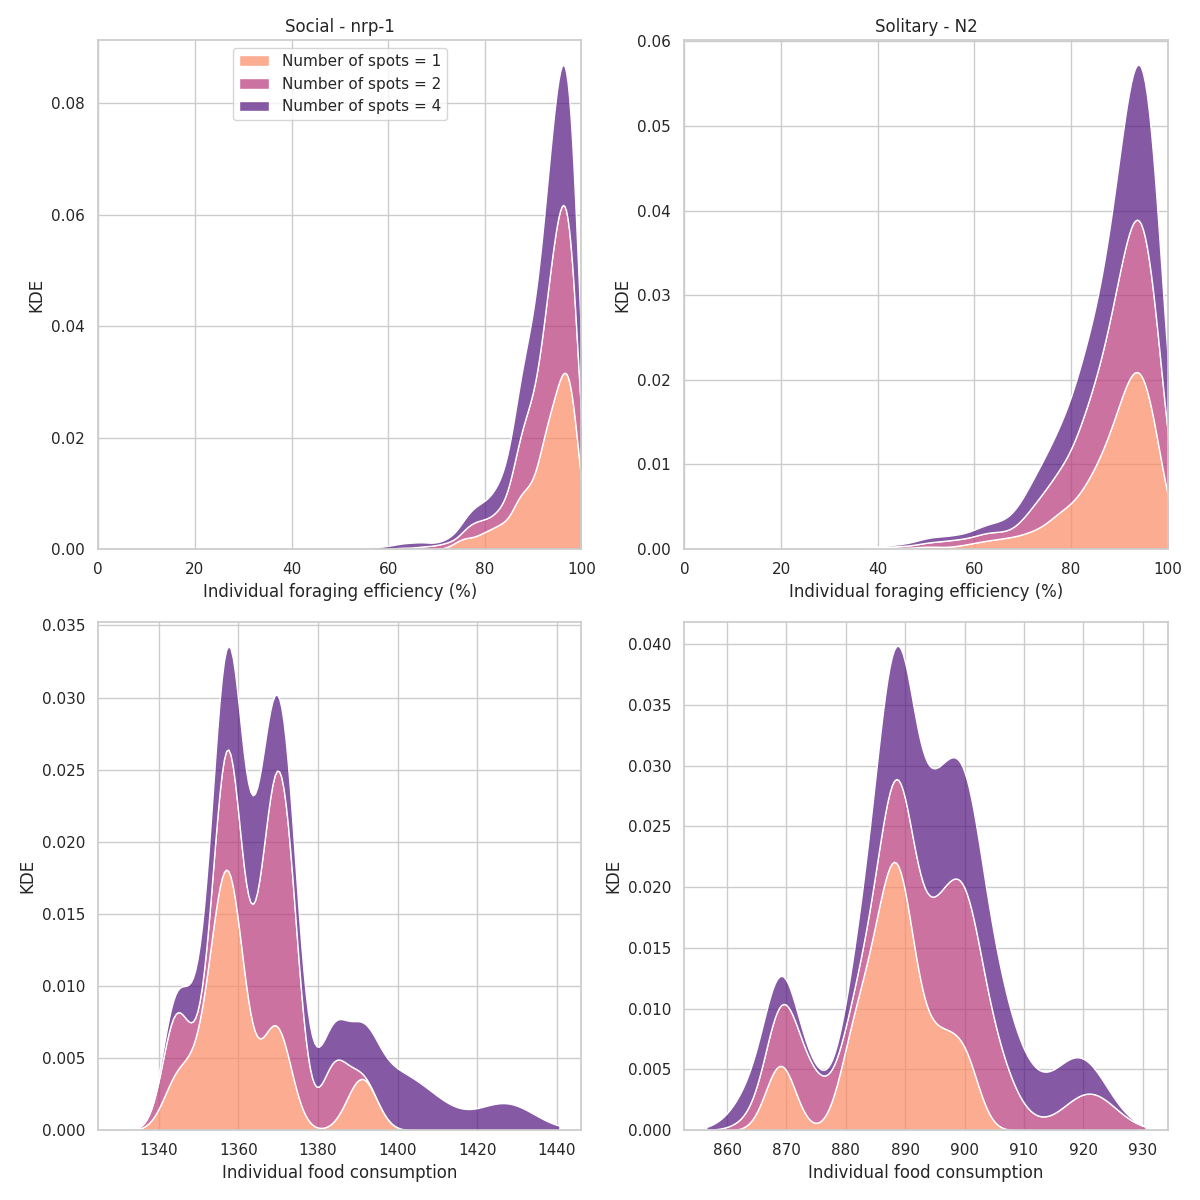
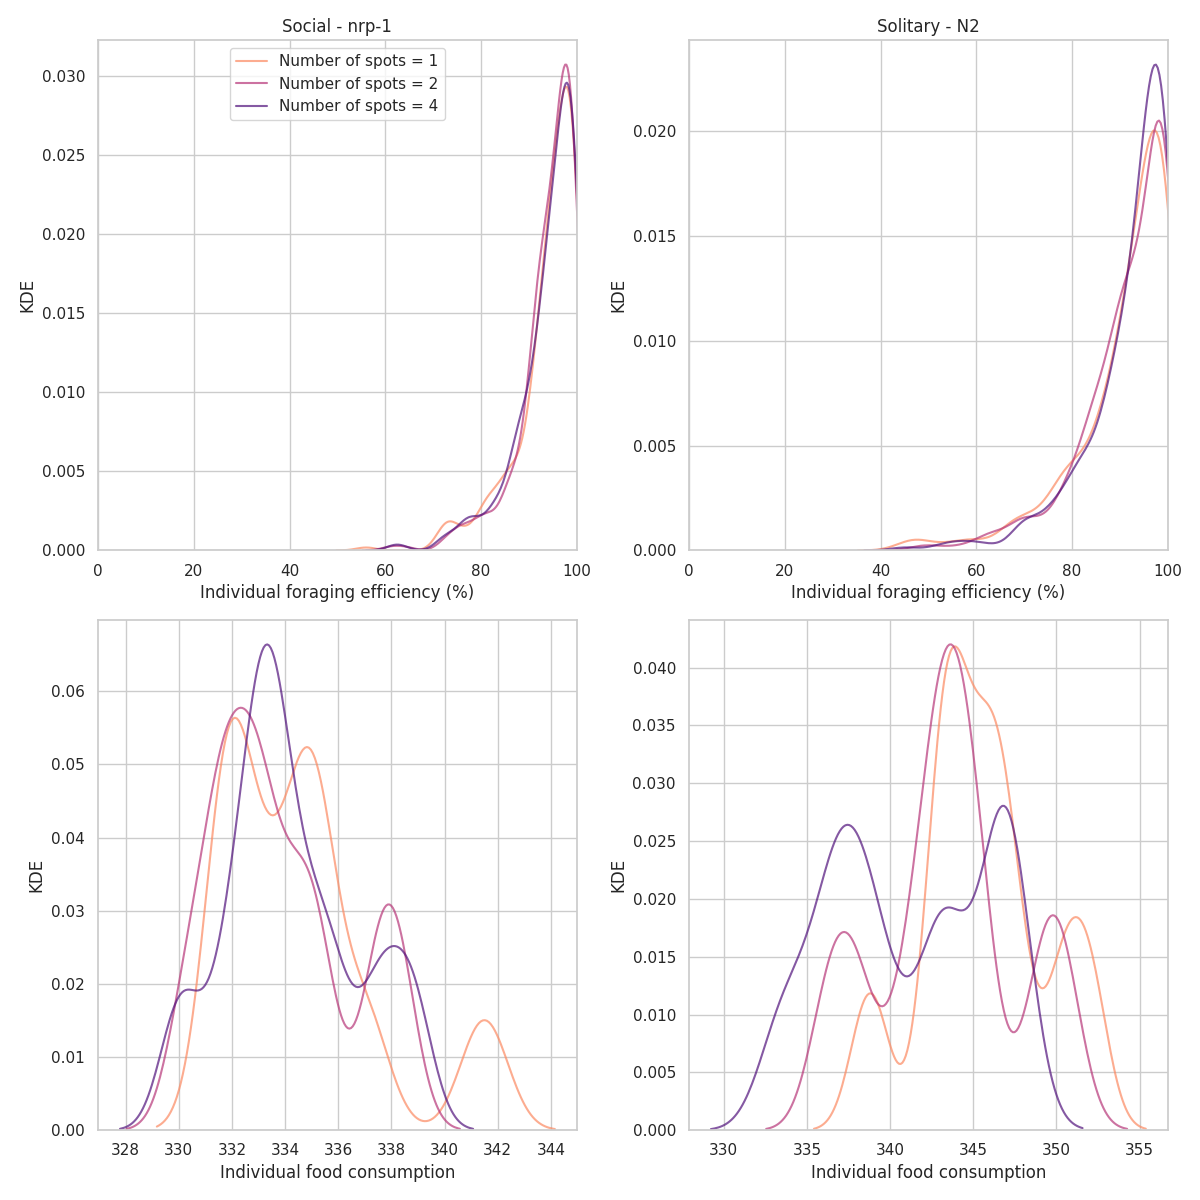
new plots + correct food gathering

diff --git a/environment.py b/environment.py
@@ -6,6 +6,7 @@ from typing import Sequence
 import math
 from random import Random
 
+
 class WormEnvironment(mesa.space.MultiGrid):
 
     def __init__(self, dim_grid: int, torus: bool) -> None:
@@ -19,17 +20,17 @@ class WormEnvironment(mesa.space.MultiGrid):
         x, y = pos
         num_worms = sum([type(agent) != Food for agent in self._grid[x][y]])
         return num_worms == 0
-    
+
     def has_food(self, pos: Coordinate) -> bool:
         x, y = pos
         num_food = sum([type(agent) == Food for agent in self._grid[x][y]])
         return num_food > 0
-    
+
     def get_neighbor_worms(self, pos: Coordinate, moore: bool, radius: int = 1) -> list[Agent]:
         agents = list(self.iter_neighbors(pos, moore, False, radius))
         worms = [a for a in agents if a.is_worm()]
         return worms
-    
+
     def place_food(self, pos: Coordinate, f: Food) -> None:
         x, y = pos
         food = [agent for agent in self._grid[x][y] if type(agent) == Food]
@@ -52,7 +53,7 @@ class WormEnvironment(mesa.space.MultiGrid):
 
     def get_total_food(self) -> int:
         return sum([self.food_quantity(pos) for _, pos in self.coord_iter()])
-    
+
     def get_neighborhood_dist(self, pos: Coordinate, moore: bool = False, radius: int = 1) -> Sequence[Coordinate]:
         """
         Returns a list of cells at a certain distance of a certain point.
@@ -84,7 +85,7 @@ class WormEnvironment(mesa.space.MultiGrid):
                 if dx + dy == radius:
                     cells.append(cell)
         return cells
-    
+
     def get_neighbors_dist(self, pos: Coordinate, moore: bool = False, radius: int = 1) -> Sequence[Coordinate]:
         """
         Returns a list of neighbors at a certain distance of a certain point.
@@ -101,22 +102,5 @@ class WormEnvironment(mesa.space.MultiGrid):
             A list of coordinate tuples representing the cells at distance d.
         """
         neighborhood = self.get_neighborhood_dist(pos, moore, radius)
-        neighbors =  list(self.iter_cell_list_contents(neighborhood))
+        neighbors = list(self.iter_cell_list_contents(neighborhood))
         return [n for n in neighbors if n.is_worm()]
-
-    def update_foraging_metrics(self, agent: Agent) -> None:
-        # Update foraging metrics based on agent's actions
-        # Call this method after the agent completes its move or foraging action
-        self.foraging_attempts += 1
-        # Implement logic to update successful foraging attempts and energy consumption based on the agent's success
-        if agent.succeeded_in_forage():
-            self.successful_foraging_attempts += 1
-
-
-    def get_foraging_efficiency_data(self) -> dict:
-        # Return the recorded foraging efficiency data as a dictionary
-        return {
-            "foraging_attempts": self.foraging_attempts,
-            "successful_foraging_attempts": self.successful_foraging_attempts
-            # Add more metrics if needed
-        }

diff --git a/plotting.py b/plotting.py
@@ -12,7 +12,7 @@ if not os.path.exists("../CSV"):
 else:
     csv_dir = "../CSV/"
     plot_dir = "../plots/"
-def plot_mean_with_df(file_name: str, group:str,x_axes:str):
+def plot_mean_with_df(file_name: str,x_axes:str,group:str = "Social",zoomed:bool = False):
     sp = pd.read_csv(csv_dir + file_name + '.csv')
 
     sp['Mean time'] = ((sp['Mean time'] * 10) / 60) / 60
@@ -32,10 +32,13 @@ def plot_mean_with_df(file_name: str, group:str,x_axes:str):
         plt.fill_between(g[x_axes], g['Mean time'] - g['Standard deviation'], g['Mean time'] + g['Standard deviation'],
                          alpha=0.3,color=color)
 
-    plt.xlabel('no. food spots')
+    plt.xlabel(x_axes)
+    if zoomed:
+        plt.xlim(0, 2)
+    if x_axes == "Number of spots":
+        plt.xticks(sp[x_axes])
     plt.ylabel('time (h)')
     plt.ylim(0, None)
-    plt.xticks(sp[x_axes])
     plt.yticks(range(0, int(max(sp['Mean time'])) + 3))
     colors = ['#C44E52', '#4C72B0']
     scatter = sns.scatterplot(data=sp, x=x_axes, y='Mean time', hue=group, palette=colors, s=100, zorder=10)
@@ -50,11 +53,14 @@ def plot_mean_with_df(file_name: str, group:str,x_axes:str):
     plt.savefig(plot_dir + file_name + ".png")
     plt.show()
 
+
 def plot_frequencies(file_name: str, legend):
     sns.set(style="whitegrid")
     data = pd.read_csv(csv_dir + file_name + '_frequencies.csv')
     data['Sense Frequency'] = data['Sense Frequency'].apply(ast.literal_eval)
     data['Food consumption'] = data['Food consumption'].apply(ast.literal_eval)
+    if legend == "Gamma":
+        data = data[data['Gamma'].isin([0, 1, 2, 3])]
     data['Sense Frequency'] = data['Sense Frequency'].apply(lambda x: [val * 100 for val in x])
     fig, axes = plt.subplots(2, 2, figsize=(12, 12))
 
@@ -67,12 +73,8 @@ def plot_frequencies(file_name: str, legend):
         for array in df['Food consumption']:
             p_food.append(array)
 
-
-        sns.kdeplot(data=p_sense, ax=axes[0, i], multiple="stack", legend=False,alpha=.7,palette="magma")
-        sns.kdeplot(data=p_food, ax=axes[1, i], multiple="stack", legend=False,alpha=.7,palette="magma")
-
-
-
+        sns.kdeplot(data=p_sense, ax=axes[0, i], legend=False,palette="magma",linewidth=1.5)
+        sns.kdeplot(data=p_food, ax=axes[1, i],legend=False,palette="magma",linewidth=1.5)
 
         axes[0, i].set_xlim(0, 100)
         axes[0, i].set_xlabel('Individual foraging efficiency (%)')
@@ -90,3 +92,5 @@ def plot_frequencies(file_name: str, legend):
         os.makedirs(plot_dir)
     plt.savefig(plot_dir + file_name + "_frequencies.png")
     plt.show()
+
+plot_frequencies("10gen_1_food_clustering","Gamma")

diff --git a/batch/batch_run_food_clustering.py b/batch/batch_run_food_clustering.py
@@ -18,12 +18,12 @@ if len(sys.argv) > 1:
     file_name = str(sys.argv[1])
 else:
     print("File name set to default")
-    file_name = "20gen_1_food_clustering"
+    file_name = "10gen_1_minimal_food_clustering"
 
 
 def run_experiment(social:bool,strain_specific:bool):
     result = []
-    all_gamma = [x for x in range(0, 4)]
+    all_gamma = [0,0.5,1,1.5,2,3,4,5,6,8,10]
     all_frequencies = []
     i = 0
     for gamma in all_gamma:
@@ -34,7 +34,7 @@ def run_experiment(social:bool,strain_specific:bool):
         for _ in tqdm(range(NUM_EXPERIMENTS), desc=(f'Running {i}/{len(all_gamma)} -> Social: {social} - Strain specific: {strain_specific} with {gamma} degree of food clustering')
                 ,position=0,leave=True):
             model = WormSimulator(n_agents=40, n_food=N_FOOD, clustering = gamma, dim_grid=GRID_SIZE, social=social,
-                                  multispot=False, num_spots=1, clustered=True, strain_specific=strain_specific)
+                                  multispot=False, num_spots=1, clustered=False, strain_specific=strain_specific)
 
             total_food = model.grid.get_total_food()
             step_count = 0
@@ -64,7 +64,7 @@ def run_experiment(social:bool,strain_specific:bool):
 
 results = [["Social","Strain specific","Gamma","Mean time","Standard deviation"]]
 f = [["Gamma","Social","Sense Frequency","Food consumption"]]
-experiment = [
+experiment = [ # Social, Strain Specific
     [True,True],
     [False,True]
 ]
@@ -86,5 +86,6 @@ with open("../CSV/"+file_name+"_frequencies.csv", 'w', newline='') as csv_file:
     csv_writer.writerows(f)
 
 print(f"List has been saved as '{file_name}.csv'")
-plot_mean_with_df(file_name,"Social","Gamma")
+plot_mean_with_df(file_name,"Gamma")
+plot_mean_with_df(file_name,"Gamma",zoomed=True)
 plot_frequencies(file_name, "Gamma")

diff --git a/batch/batch_run_strain_specific.py b/batch/batch_run_strain_specific.py
@@ -18,7 +18,7 @@ if len(sys.argv) > 1:
     file_name = str(sys.argv[1])
 else:
     print("File name set to default")
-    file_name = "strain_specific"
+    file_name = "cluster_false_test"
 
 
 def run_experiment(social:bool,strain_specific:bool):
@@ -33,7 +33,7 @@ def run_experiment(social:bool,strain_specific:bool):
         food_consumption = []
         for _ in tqdm(range(NUM_EXPERIMENTS), desc= (f'Running {i}/{len(all_spots)} -> Social: {social} - Strain specific: {strain_specific} with {num_spots} spots'),position=0,leave=True):
             model = WormSimulator(n_agents=35, n_food=N_FOOD, clustering=1, dim_grid=GRID_SIZE, social=social,
-                                  multispot=True, num_spots=1, clustered=True, strain_specific=strain_specific)
+                                  multispot=True, num_spots=1, clustered=False, strain_specific=strain_specific)
 
             total_food = model.grid.get_total_food()
             step_count = 0
@@ -66,7 +66,7 @@ def run_experiment(social:bool,strain_specific:bool):
 
 results = [["Social","Strain specific","Number of spots","Mean time","Standard deviation"]]
 f = [["Number of spots","Social","Sense Frequency","Food consumption"]]
-experiment = [
+experiment = [  # Social, Strain Specific
     [True,True],
     [False,True]
 ]
@@ -87,5 +87,5 @@ with open("../CSV/"+file_name+"_frequencies.csv", 'w', newline='') as csv_file:
     csv_writer.writerows(f)
 
 print(f"List has been saved as '{file_name}.csv'")
-plot_mean_with_df(file_name,"Social","Number of spots")
+plot_mean_with_df(file_name,"Number of spots")
 plot_frequencies(file_name, "Number of spots")

diff --git a/player.py b/player.py
@@ -32,10 +32,11 @@ class SolitaryWorm(mesa.Agent):
             new_pos = self.random.choice(possible_moves)
             self.model.grid.move_agent(self, new_pos)
             self.pos = new_pos
+        self.update_foraging_metrics()
 
     def consume_food(self) -> None:
         self.model.grid.consume_food(self.pos, self.feeding_rate)
-        self.consumed_food+=1
+        self.consumed_food+=self.feeding_rate
 
     def is_worm(self) -> bool:
         return True
@@ -77,6 +78,7 @@ class SocialWorm(SolitaryWorm):
             new_pos = self.random.choice(neighborhood)
             self.model.grid.move_agent(self, new_pos)
             self.pos = new_pos
+        self.update_foraging_metrics()
 
     def targeted_step(self, neighborhood: Sequence[Coordinate], worm_neighbors: Sequence[mesa.Agent]) -> Sequence[Coordinate]:
         social_neighborhood = set()
